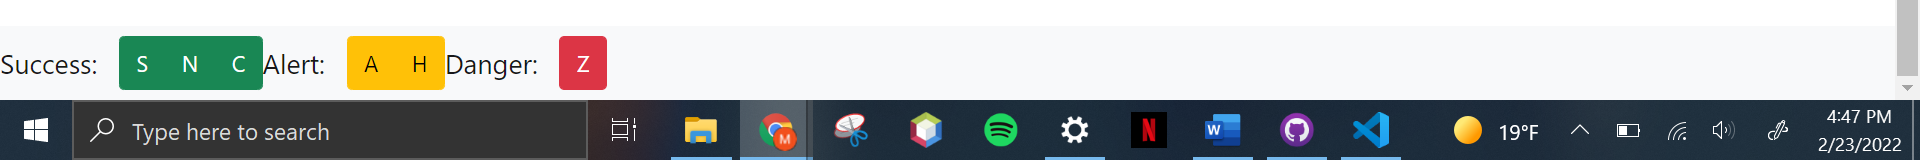
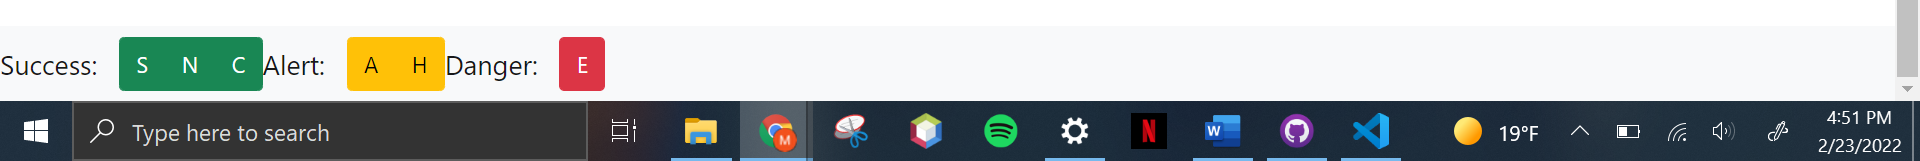
changes

diff --git a/birds.html b/birds.html
@@ -120,12 +120,13 @@
         <td>Ennerdale</td>
         <td>Edmund</td>
       </tr>
-      <tr>
+      <!-- <tr>
         <th scope="row">Z</th>
         <td>Zapata Wren</td>
         <td>Zurich</td>
         <td>Zidane</td>
-      </tr>
+      </tr> -->
+      
     </tbody>
   </table>
 
@@ -145,7 +146,7 @@
   </div>
   <a class="navbar-brand" href="#">Danger:</a>
   <div class="btn-group" role="group" aria-label="Basic mixed styles example">
-    <button type="button" class="btn btn-danger">Z</button>
+    <button type="button" class="btn btn-danger">E</button>
   </div>
 </div>
 </nav>
